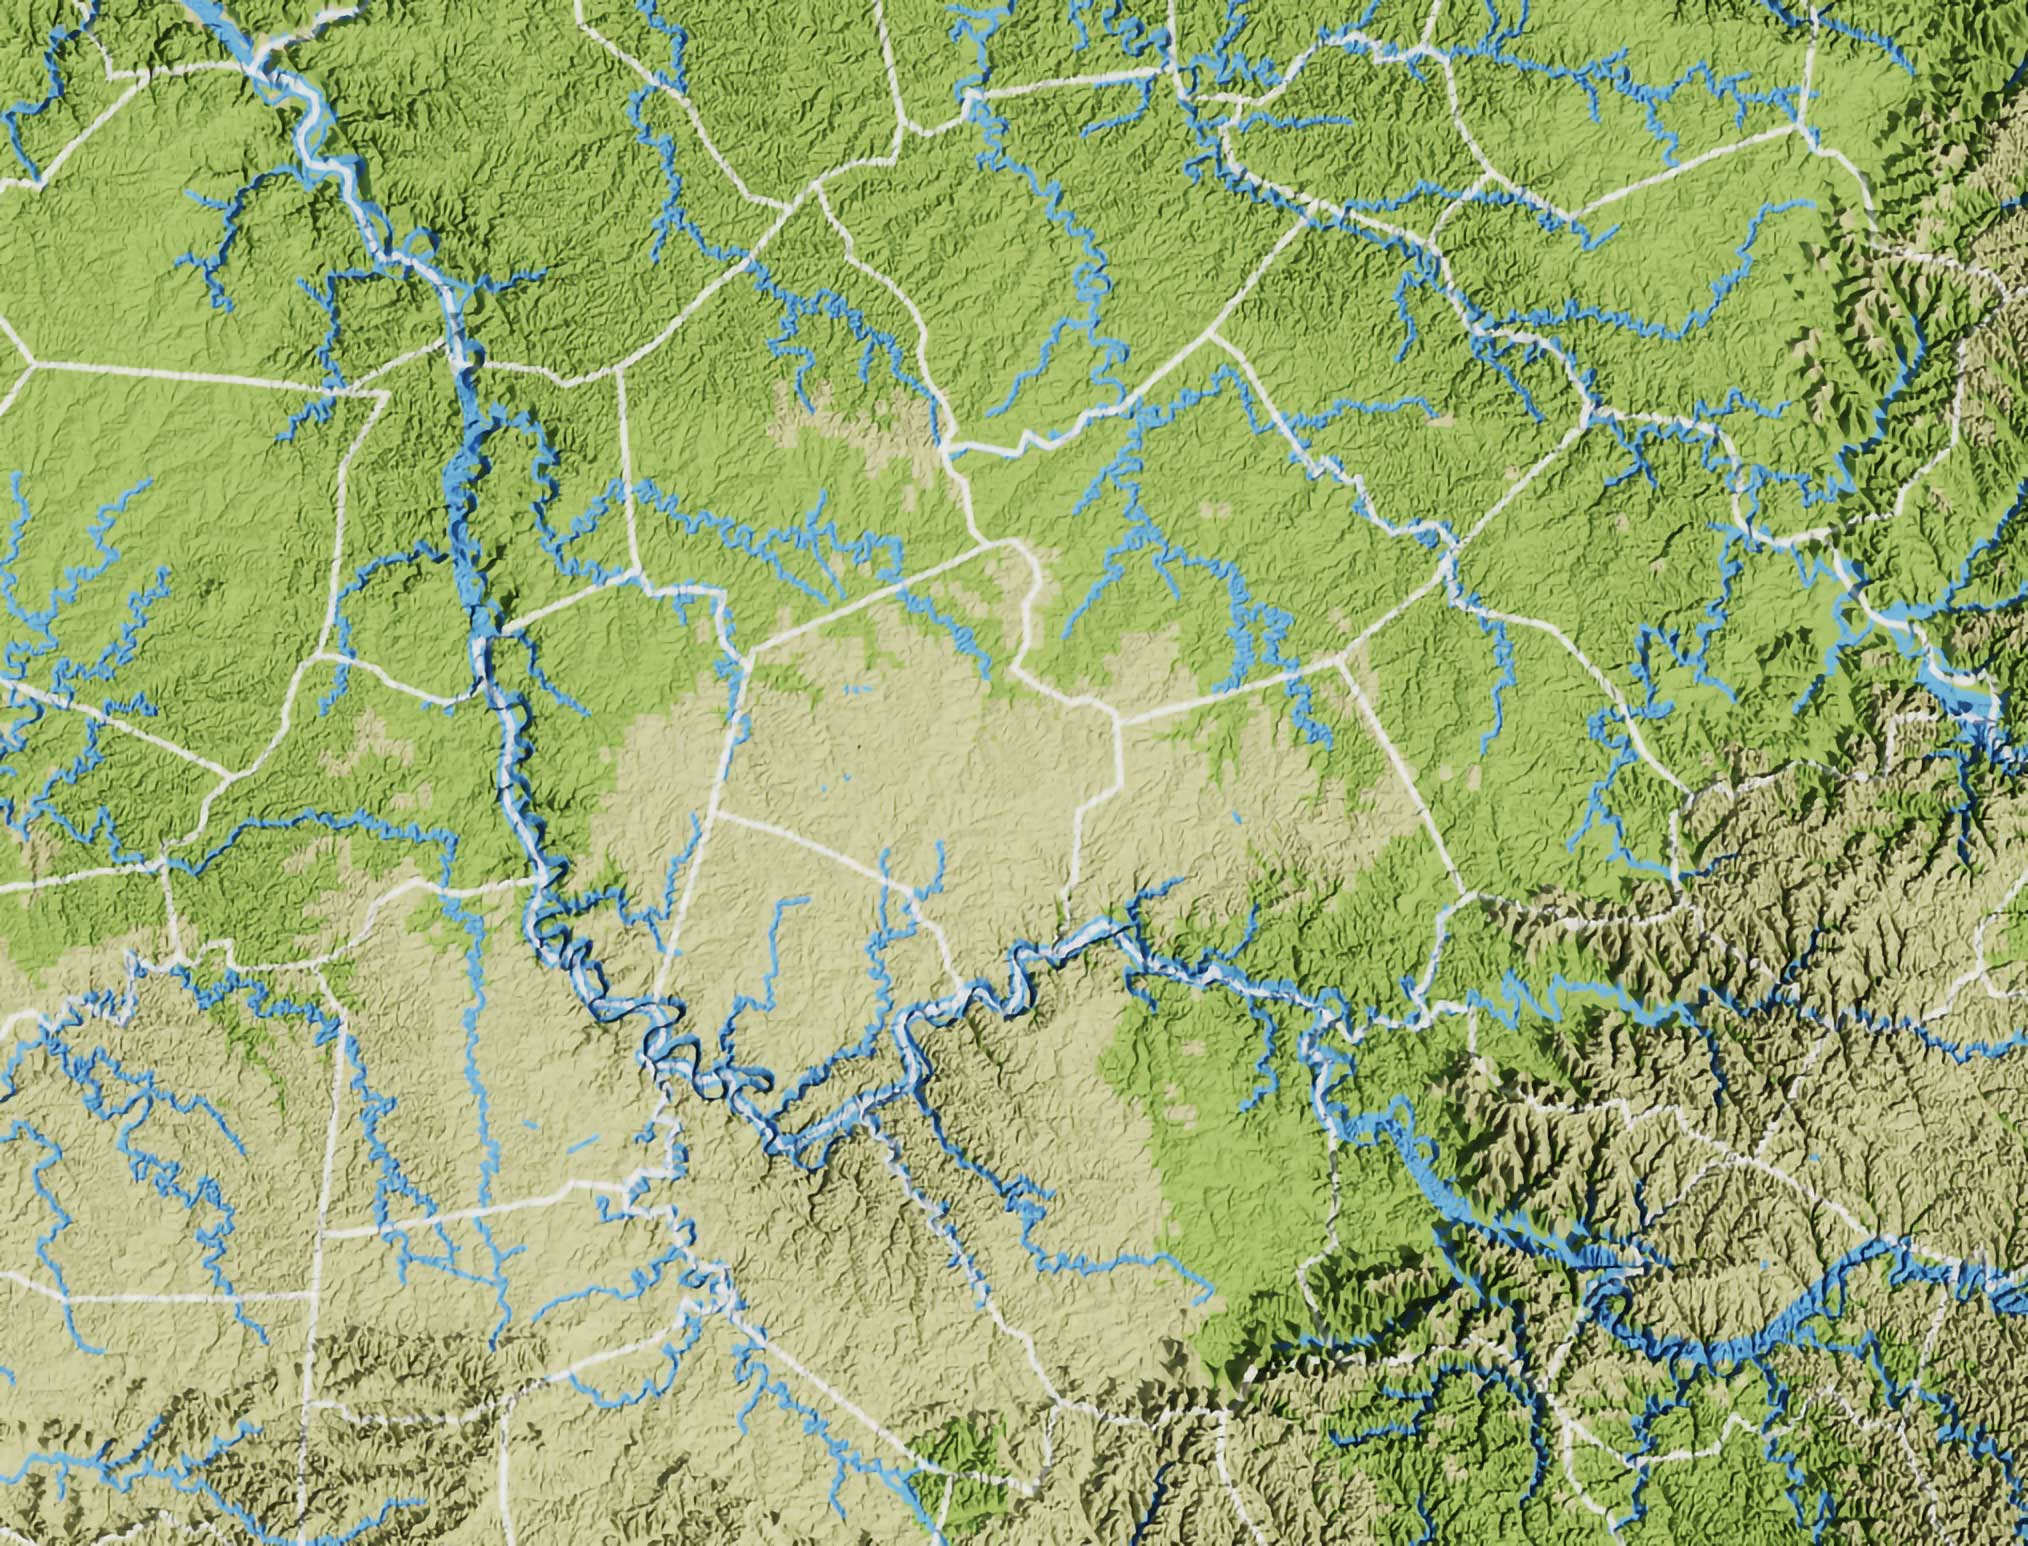
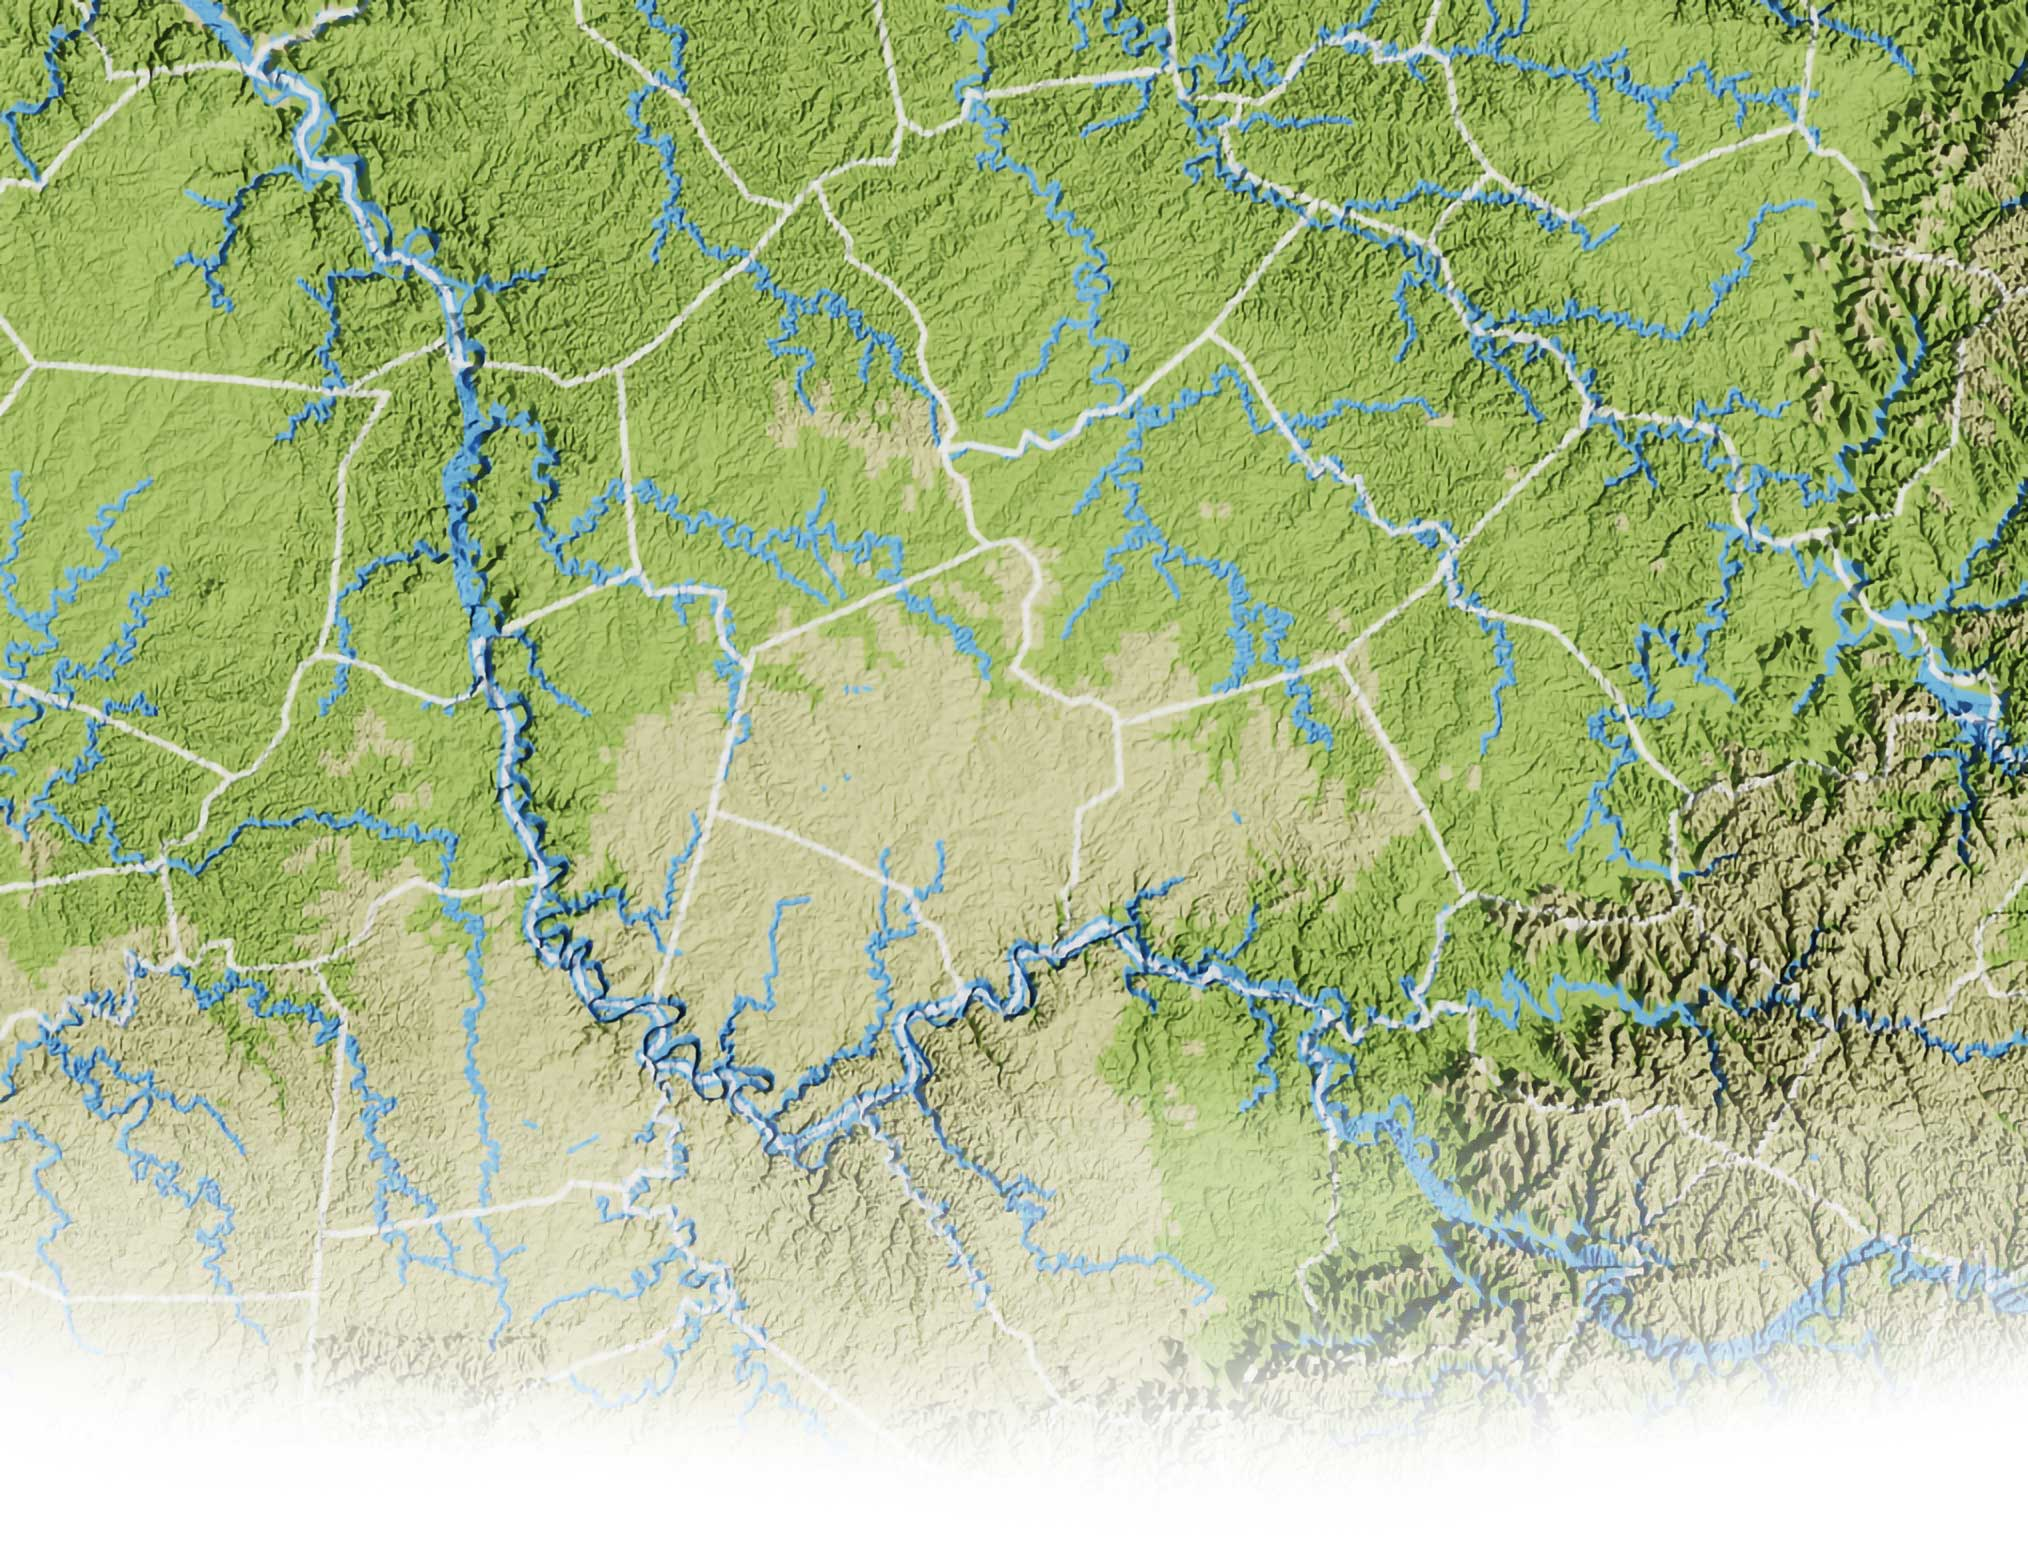
enhanced parallax
cloudy bg image
title incorporated
multiple layers of scroll speed
background most distorted
navbar still bugged (not fixed position)

Changed region(s): [[0.0, 0.6831, 1.0, 1.0]]

diff --git a/css/styles.css b/css/styles.css
@@ -9,13 +9,21 @@ body {
    font-weight: 100;
    height: 100vh;
    perspective: 1px;
-   transform-style: preserve-3d;
+   /* transform-style: preserve-3d; */
    overflow-x:hidden;
    overflow-y:auto;
 }
 
 html {
-  overflow: hidden;
+  overflow: auto;
+}
+
+.navbar {
+  transform:translateZ(-0px) scale(1);
+}
+
+.title {
+  transform:translateZ(-2px) scale(3);
 }
 
 .castoro-regular {
@@ -32,14 +40,14 @@ html {
 
 h1 {
     color: #000000;
-    font-family: "Castoro", serif; !important;
-    font-weight: 400; !important;
-    font-style: normal; !important;
+    font-family: "Castoro", serif;
+    font-weight: 400;
+    font-style: normal;
 }
 
 h2 {
     color: #e5e5e5;
-    font-family: "Castoro", cursive;
+    font-family: "Castoro", serif;
     font-weight: 400;
     font-size: 200%;
     font-style: normal;
@@ -48,7 +56,7 @@ h2 {
 
 h3 {
     color: #023047;
-    font-family: "Castoro", cursive;
+    font-family: "Castoro", serif;
     font-weight: 200;
     font-size: 100%;
     font-style: normal;
@@ -56,7 +64,7 @@ h3 {
 
 h6 {
     color: #FFFFFF;
-    font-family: "Castoro", serif;
+    font-family: "Patrick Hand SC", cursive;
     font-weight: 400;
     font-style: normal;
     font-size: 400%;
@@ -64,15 +72,18 @@ h6 {
 }
 
 h7 {
+    font-weight: 400;
+    font-family: "Castoro", serif;
+    font-size: 100%;
     text-shadow: 1.5px 1.5px #000000;
 }
 
 a {
-  color: #2176ae; !important;
-  font-weight: bold; !important;
-  font-size: 110%; !important;
-  font-family: "Castoro", cursive; !important;
-  text-decoration: none; !important;
+  color: #2176ae;
+  font-weight: bold;
+  font-size: 110%;
+  font-family: "Castoro", serif;
+  text-decoration: none;
 }
 
 a:hover {
@@ -83,32 +94,27 @@ a:hover {
 .parallax-wrapper {
     width: 100vw;
     height:100vh;
+    transform-style: preserve-3d;
 }
+
 .regular-wrapper {
     width: 100vw;
+    transform:translateZ(0px) scale(1);
+    z-index: 1;
 }
 
 .parallax-wrapper::before {
     content:"";
     width: 100vw;
-    height: 100vh;
+    height: 185vh;
     top:0;
     left:0;
     background-image: url("../images/jumbotron-ortho.jpg");
+    transform:translateZ(-9px) scale(10);
     background-size: 100vw;
     position: absolute;
     z-index: -1;
 }
-
-.parallax-wrapper {
-  transform-style: preserve-3d;
-}
-
-.parallax-wrapper::before {
-  transform:translateZ(-1px) scale(2);
-}
-
-
 
 /* media query when the media is wider than 992px */
 @media (min-width: 992px) {
@@ -125,4 +131,4 @@ section {
   padding: 80px 0;
 }
 
-background-image: var(--bs-gradient);
+/* background-image: var(--bs-gradient); */

diff --git a/index.html b/index.html
@@ -5,7 +5,7 @@
 
     <meta charset="utf-8">
     <meta name="viewport" content="width=device-width, initial-scale=1, shrink-to-fit=no">
-    <meta name="description" content="This is a professional portfolio of digital cartography projects.">
+    <meta name="description" content="This is a portfolio of professional and personal digital cartography projects.">
     <meta name="author" content="Joshua Knight">
 
     <title>A Portfolio of Digital Cartography</title>
@@ -24,9 +24,8 @@
   </head>
 
   <body id="page-top">
-
     <!-- Navigation -->
-    <nav class="navbar navbar-expand-lg navbar-dark bg-dark bg-gradient fixed-top" id="mainNav">
+    <nav class="navbar fixed-top navbar-expand-lg navbar-light bg-light bg-gradient" id="mainNav">
       <div class="container">
         <a class="navbar-brand js-scroll-trigger mr-auto" href="#page-top">Top</a>
         <button class="navbar-toggler" type="button" data-toggle="collapse" data-target="#navbarResponsive" aria-controls="navbarResponsive" aria-expanded="false" aria-label="Toggle navigation">
@@ -49,14 +48,16 @@
     </nav>
 
 <!-- Welcome Section -->
-    <header class="bg-image d-flex flex-column justify-content-center align-items-center parallax-wrapper bg-transparent">
+    <header class="d-flex flex-column justify-content-center align-items-center  parallax-wrapper bg-transparent">
+      <div class="title">
         <h6>views from above</h6>
         <div class="text-white shadow-1-strong rounded"><h7>built for sharing personal and professional digital mapping projects</h7></div>
+      </div>
 <!-- Jumbotron -->
     </header>
 
     <!-- Projects Section -->
-    <section id="static" class="bg-light bg-gradient">
+    <section id="static" class="bg-white">
       <div class="container regular-wrapper">
         <div class="row">
           <div class="col-lg-4 col-sm-6 portfolio-item">
@@ -115,7 +116,7 @@
       </div>
     </section>
 
-    <section id="interactive" class="bg-secondary bg-gradient">
+    <section id="interactive" class="bg-white">
       <div class="container">
         <div class="row">
           <div class="col-lg-4 col-sm-6 portfolio-item">
@@ -260,7 +261,7 @@
     </section>
 
    <!-- About Section -->
-   <section id="about" class="regular-wrapper bg-transparent">
+   <section id="about" class="bg-white regular-wrapper">
       <div class="container">
         <div class="row">
           <div class="col-lg-12 mx-auto">
@@ -301,9 +302,9 @@
     </section>
 
     <!-- Footer -->
-    <footer class="py-5 bg-dark bg-gradient">
+    <footer class="py-5 bg-light bg-gradient">
       <div class="container d-flex justify-content-center align-items-center">
-        <h3 style="color: #e5e5e5">Copyright &copy; Joshua Knight 2024<h3>
+        <h3 style="color: #000000">Copyright &copy; Joshua Knight 2024<h3>
       </div>
     </footer>
 